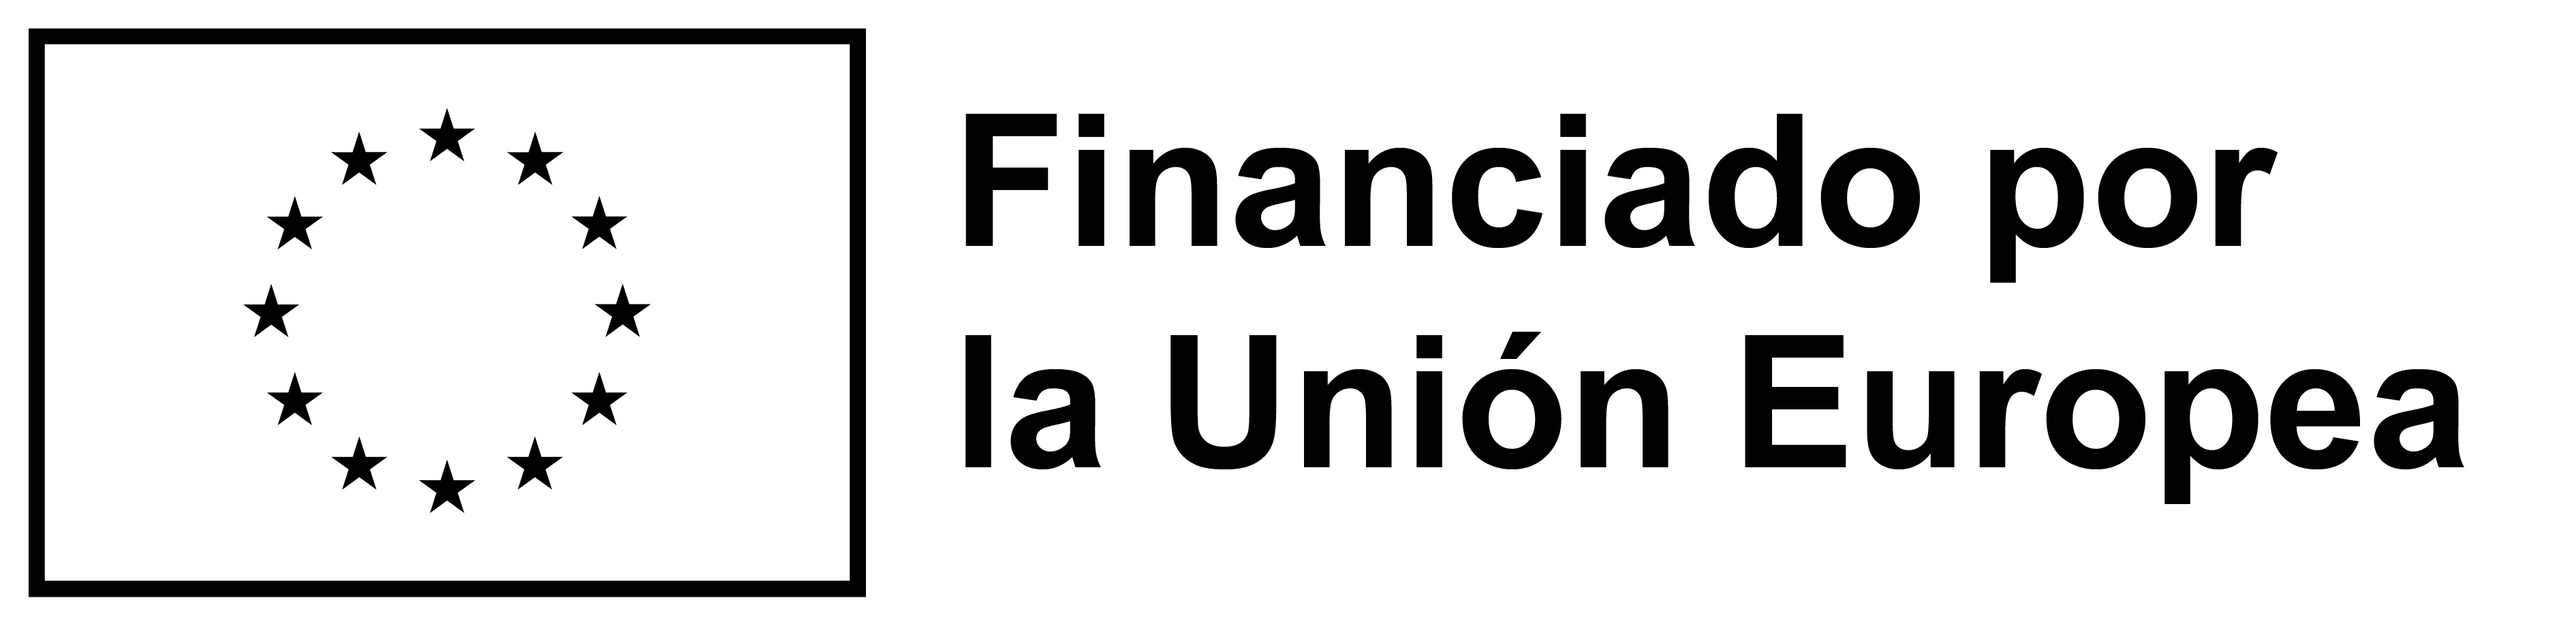
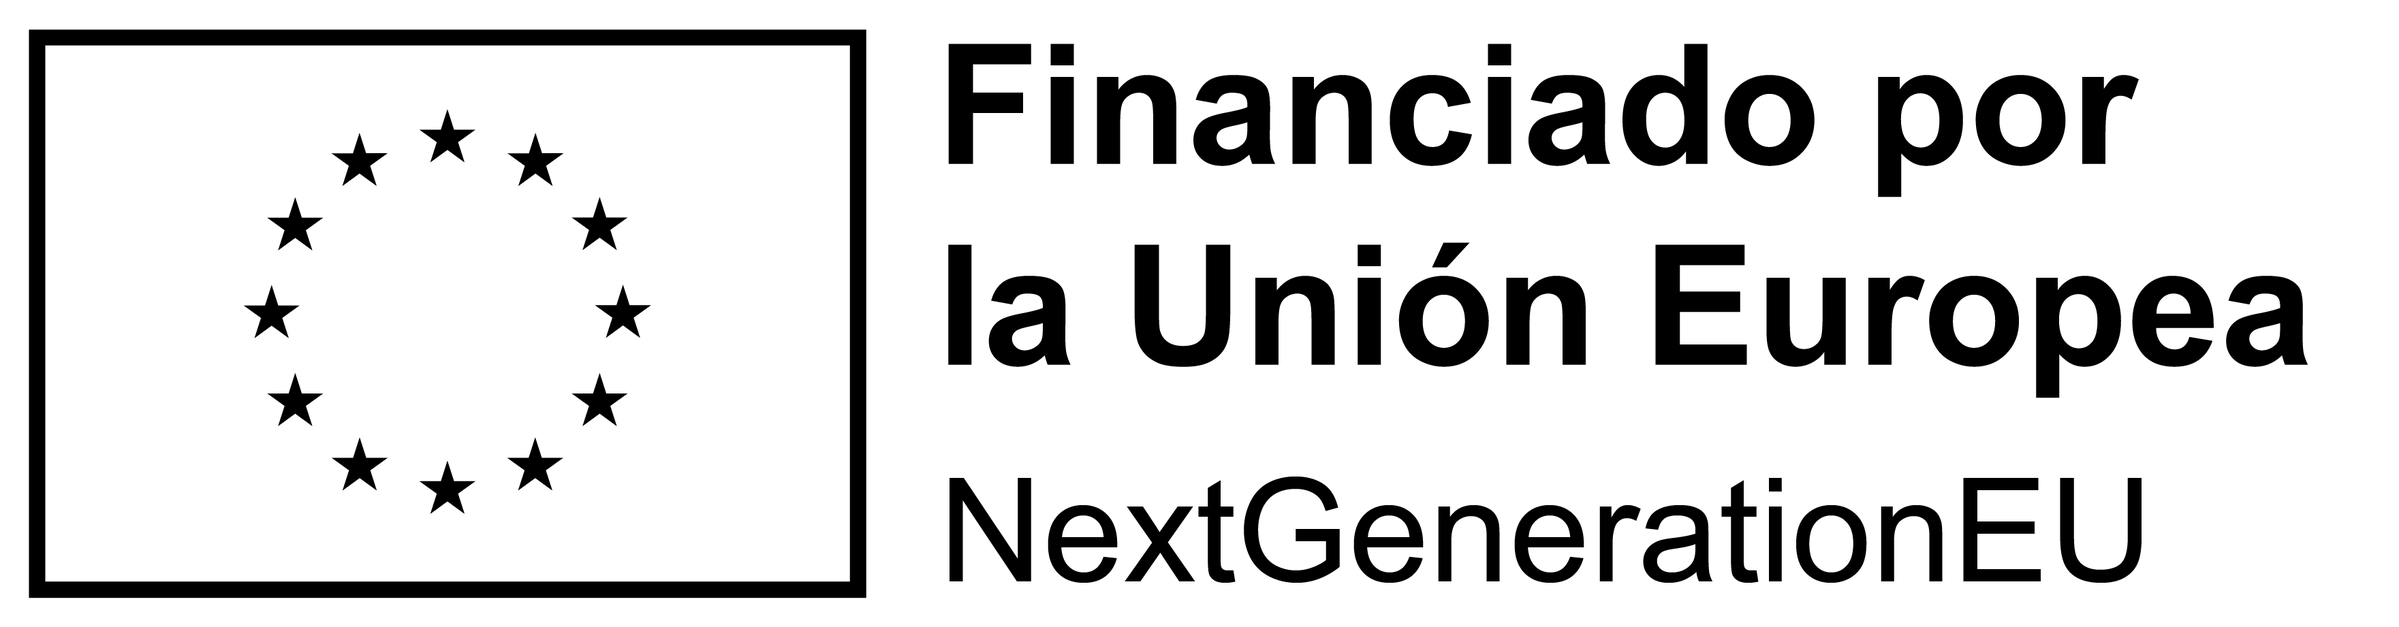
corrected sponsor

diff --git a/components/Sponsor.tsx b/components/Sponsor.tsx
@@ -6,7 +6,7 @@ export default function Sponsor() {
 			<div className="flex flex-row justify-content-center">
 				<Image
 					src={"/images/ue/foundedbyeu.png"}
-					alt="Fundado por la Unión Europea"
+					alt="Financiado por la Unión Europea - NextGenerationEU"
 					width={300}
 					height={70}
 				></Image>

diff --git a/README.md b/README.md
@@ -47,7 +47,7 @@ To learn more about Next.js, React, Bootstrap 5 and React-Bootstrap, take a look
 
 ## Sponsor
 
-![Fundado por la Unión Europea](public/images/ue/foundedbyeu.png)
+![Financiado por la Unión Europea - NextGenerationEU](public/images/ue/foundedbyeu.png)
 ![Plan de Recuperación Transformación y Resilencia](public/images/ue/prtr.png)
 
 Financiado por la Unión Europea - NextGenerationEU
